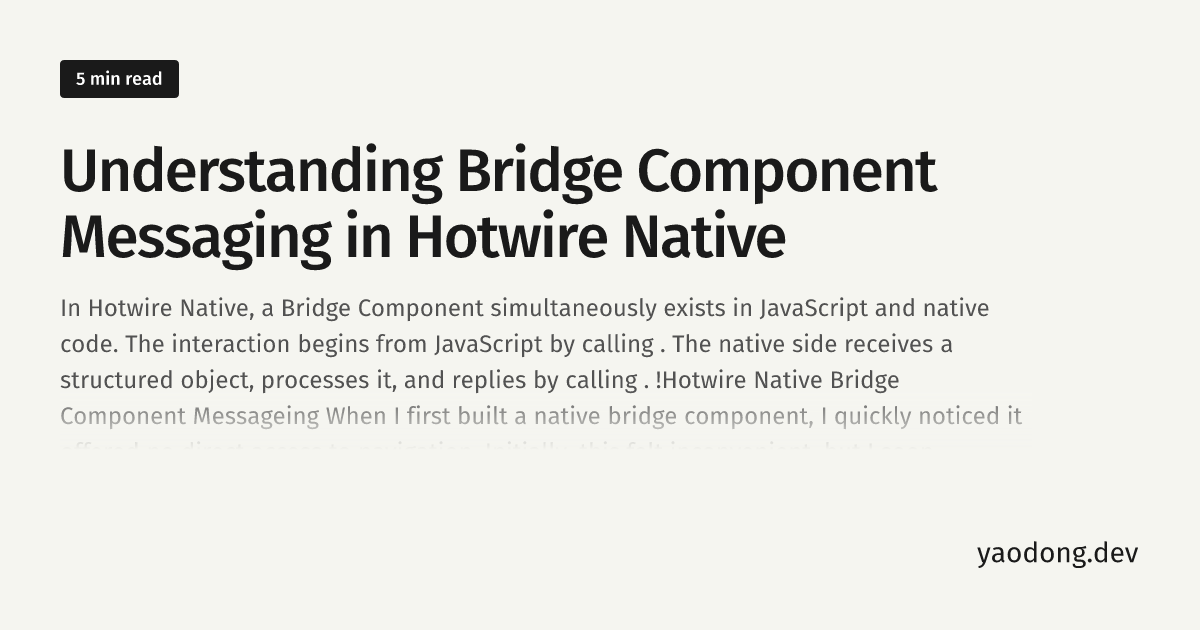
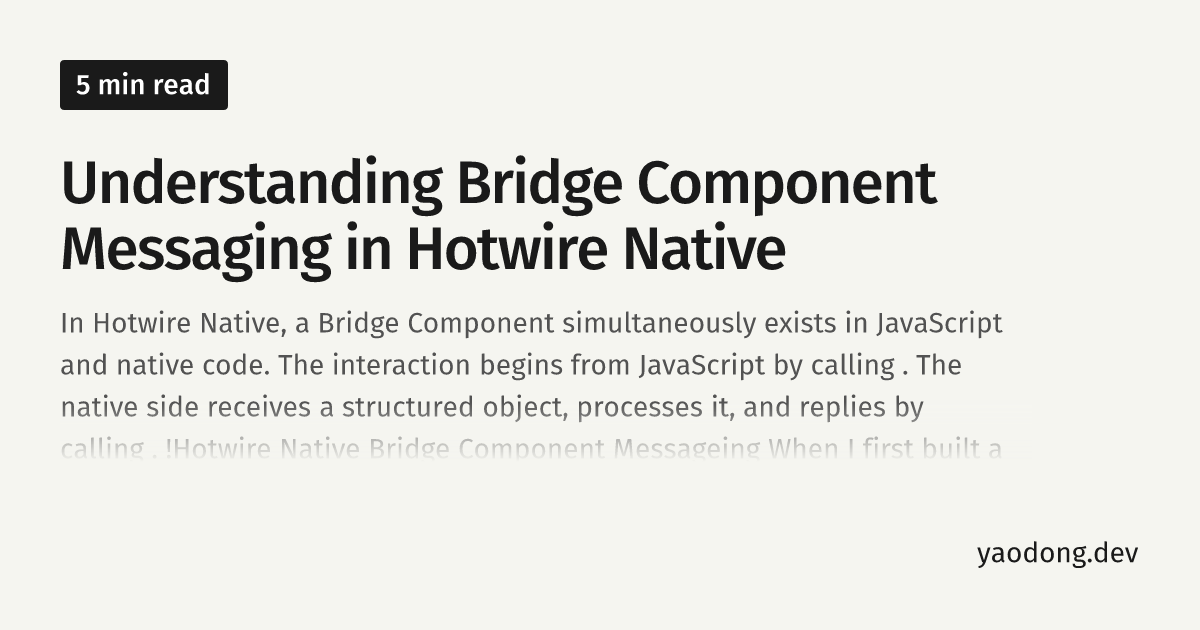
Update Open Graph images and adjust font sizes in the image generation script for better visibility

Changed region(s): [[0.0308, 0.4825, 0.8325, 0.7238], [0.0308, 0.2111, 0.8017, 0.4524], [0.0308, 0.0905, 0.2158, 0.181]]

diff --git a/scripts/generate-og-image.ts b/scripts/generate-og-image.ts
@@ -131,7 +131,7 @@ async function generateOgImage(postPath: string) {
                       type: "span",
                       props: {
                         style: {
-                          fontSize: "18px",
+                          fontSize: "28px",
                           fontWeight: 500,
                           color: "#ffffff",
                           backgroundColor: COLORS.text,
@@ -188,7 +188,7 @@ async function generateOgImage(postPath: string) {
                                   type: "p",
                                   props: {
                                     style: {
-                                      fontSize: "24px",
+                                      fontSize: "28px",
                                       fontWeight: 400,
                                       color: COLORS.textSecondary,
                                       lineHeight: 1.5,
